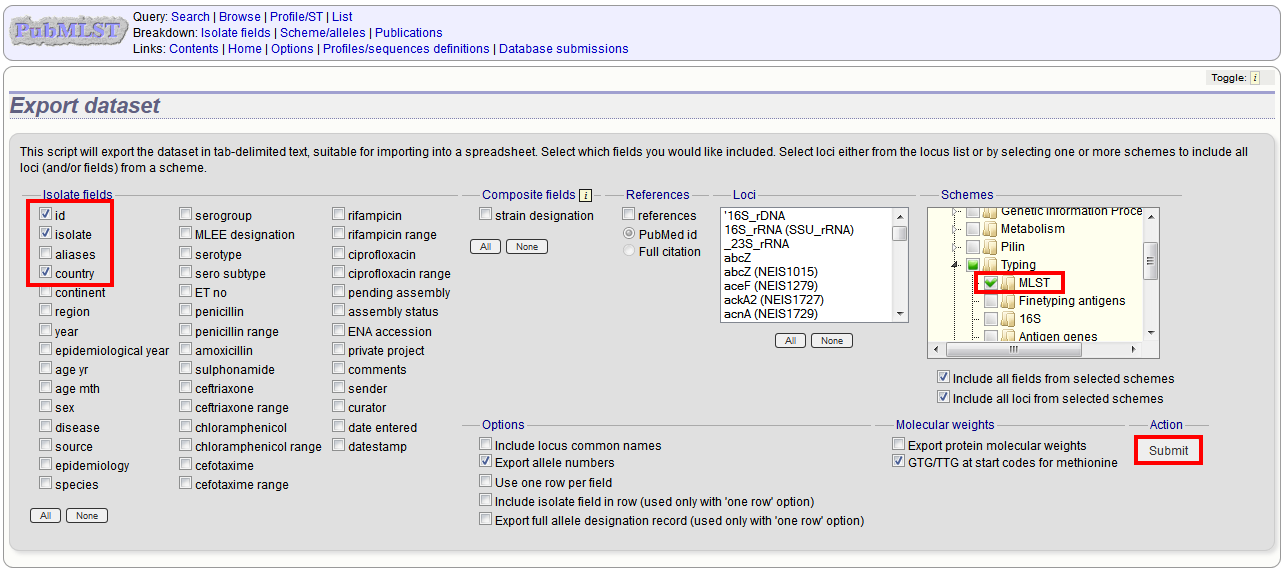
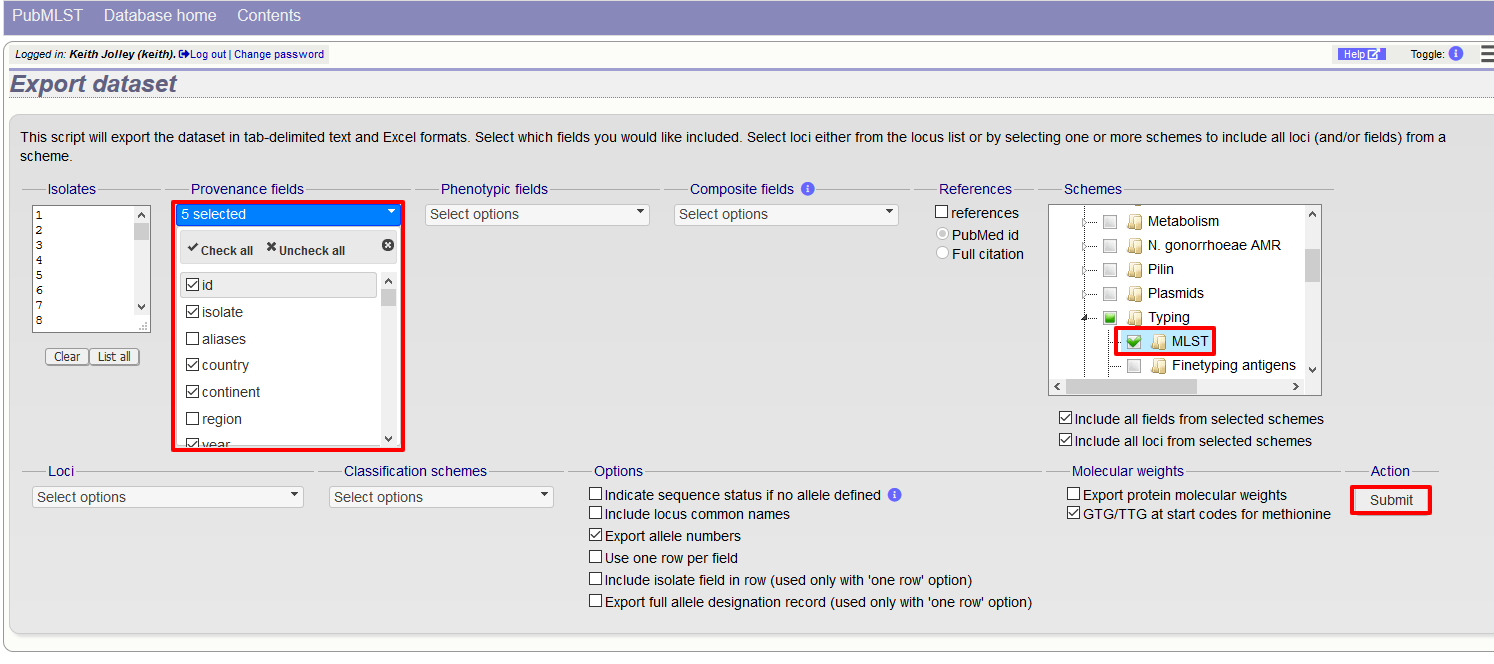
Update export plugin screenshot.

diff --git a/data_export.rst b/data_export.rst
@@ -19,7 +19,8 @@ vary depending on the setup of the database.
 
 .. image:: /images/data_export/isolate_export2.png
 
-Select the isolate fields and schemes to include.
+Select the isolate ids (if they have not been pre-selected from your query), 
+isolate fields and schemes to include.
 
 .. image:: /images/data_export/isolate_export3.png
 
